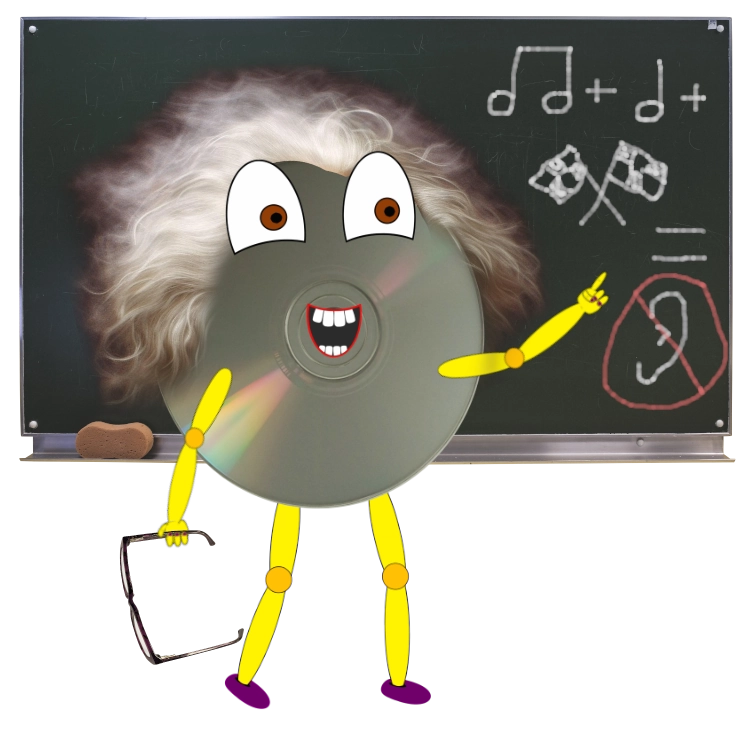
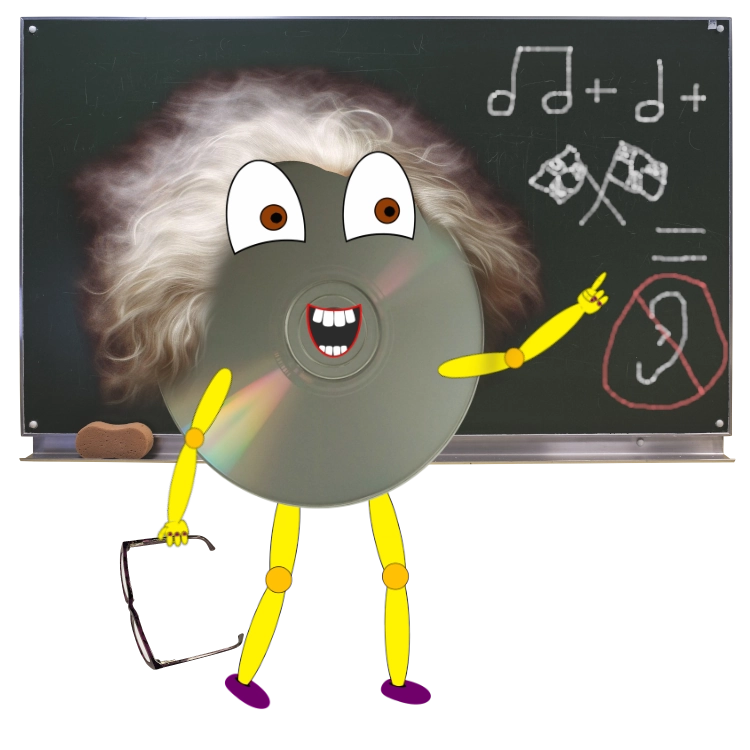
added professor steve to the coding page

Changed region(s): [[0.1533, 0.7053, 0.3067, 0.8893], [0.3067, 0.828, 0.3373, 0.8587]]

diff --git a/src/styles/global.css b/src/styles/global.css
@@ -131,13 +131,6 @@ sup {
 }
 
 @keyframes wizard-float {
-  /* from,
-  to {
-    transform: translateY(0) rotate(0);
-  }
-  50% {
-    transform: translateY(-2px) rotate(0.5deg);
-  } */
   0%,
   100% {
     transform: perspective(1000px) translate3d(0, 0, 0) rotate(0deg);
